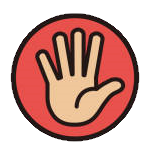
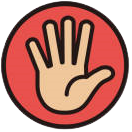
refactor: changed button images to img elements

diff --git a/assets/css/style.css b/assets/css/style.css
@@ -14,8 +14,9 @@
 }
 
 #ul li {
-    padding: 3px;
+    padding: 0px 100px;
     list-style: none;
+    font-size: 150%;
 }
 
 #ul a {
@@ -66,13 +67,20 @@
     margin: 50px 0;
 }
 
+.button-image {
+    width: 118px;
+    height: 118px;
+    border-radius: 50%;
+    position: relative;
+    bottom: 4px;
+    right: 8px;
+    pointer-events: none;
+}
+
 #rock-button {
     width: 115px;
     height: 115px;
     border-radius: 50%;
-    background-image: url(/assets/images/rock.png);
-    background-size: auto;
-    background-position: center;
     cursor: pointer;
 }
 
@@ -80,9 +88,6 @@
     width: 115px;
     height: 115px;
     border-radius: 50%;
-    background-image: url(/assets/images/paper.png);
-    background-size: auto;
-    background-position: center;
     cursor: pointer;
 }
 
@@ -90,9 +95,6 @@
     width: 115px;
     height: 115px;
     border-radius: 50%;
-    background-image: url(/assets/images/scissors.png);
-    background-size: auto;
-    background-position: center;
     cursor: pointer;
 }
 

diff --git a/index.html b/index.html
@@ -34,9 +34,19 @@
         </section>
         <section id="game-section">
             <div id="button-section">
-                <button id="paper-button" value="paper"></button>
-                <button id="rock-button" value="rock"></button>
-                <button id="scissors-button" value="scissors"></button>
+
+                <button id="rock-button" value="rock">
+                    <img src="assets/images/rock.png" alt="" class="button-image">
+                </button>
+
+                <button id="paper-button" value="paper">
+                    <img src="assets/images/paper.png" alt="" class="button-image">
+                </button>
+
+                <button id="scissors-button" value="scissors">
+                    <img src="assets/images/scissors.png" alt="" class="button-image">
+                </button>
+
             </div>
             <div id="information-section">
                 <p></p>
